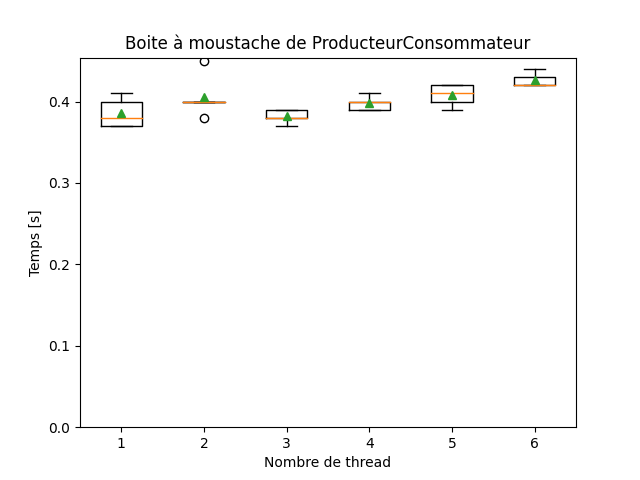
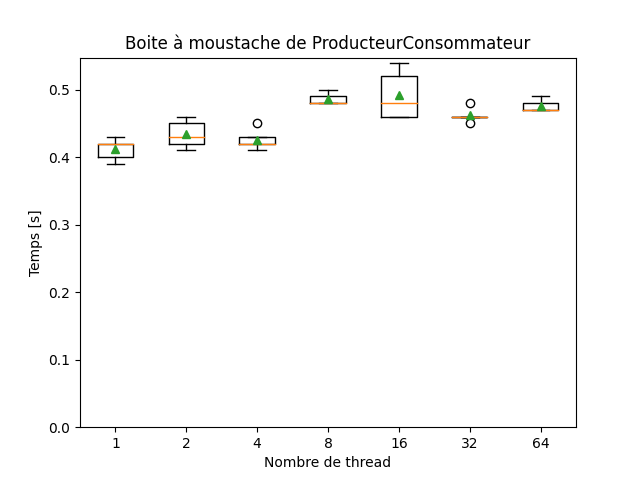
new thread

diff --git a/Projet_SI/plot.py b/Projet_SI/plot.py
@@ -10,13 +10,14 @@ def moustache1(data_name, name):
 
     data_1=data_time[data_thread==1]
     data_2=data_time[data_thread==2]
-    data_3=data_time[data_thread==3]
     data_4=data_time[data_thread==4]
-    data_5=data_time[data_thread==5]
-    data_6=data_time[data_thread==6]
+    data_8=data_time[data_thread==8]
+    data_16=data_time[data_thread==16]
+    data_32=data_time[data_thread==32]
+    data_64=data_time[data_thread==64]
 
     fig=plt.figure()
-    plt.boxplot([data_1,data_2,data_3,data_4,data_5,data_6], labels=[1,2,3,4,5,6],showmeans=True)
+    plt.boxplot([data_1,data_2,data_4,data_8,data_16,data_32,data_64], labels=[1,2,4,8,16,32,64],showmeans=True)
     plt.ylabel('Temps [s]')
     plt.ylim(bottom=0)
     plt.xlabel('Nombre de thread')
@@ -31,13 +32,14 @@ def moustache(data_name, name):
     data_thread=data['thread']
 
     data_2=data_time[data_thread==2]
-    data_3=data_time[data_thread==3]
     data_4=data_time[data_thread==4]
-    data_5=data_time[data_thread==5]
-    data_6=data_time[data_thread==6]
+    data_8=data_time[data_thread==8]
+    data_16=data_time[data_thread==16]
+    data_32=data_time[data_thread==32]
+    data_64=data_time[data_thread==64]
 
     fig=plt.figure()
-    plt.boxplot([data_2,data_3,data_4,data_5,data_6], labels=[2,3,4,5,6], showmeans=True)
+    plt.boxplot([data_2,data_4,data_8,data_16,data_32,data_64], labels=[2,4,8,16,32,64],showmeans=True)
     plt.ylabel('Temps [s]')
     plt.ylim(bottom=0)
     plt.xlabel('Nombre de thread')
@@ -48,6 +50,8 @@ def moustache(data_name, name):
 moustache1('mesuresEL.csv', "EcrivainsLecteurs")
 moustache('mesuresPhilosophe.csv', "Philosophe")
 moustache1('mesuresProd.csv', "ProducteurConsommateur")
+moustache1('mesuresTestAndSet.csv', "Test-and-set")
+moustache1('mesuresTestAndTestAndSet.csv', "Test-and-test-and-set")
 
 
 
